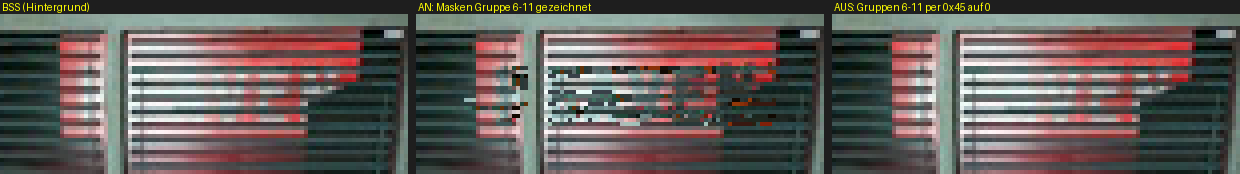
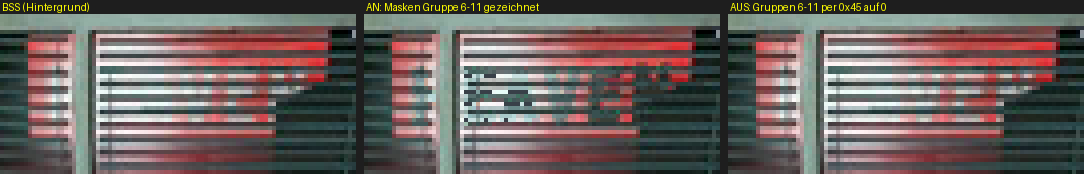
wip(r34n-g2): Original gemessen - ROOM1150 Cut 2 "HEAVEN" blinkt ueber Maskengruppen 6..11 (Takt 40/40 VBlanks)
Dossier G2_schrift1150.md Abschnitte 0-4 (Bauplan folgt).
- Original (DuckStation, 6 Endstaende desselben deterministischen Laufs, RAM-Patch-Sprung ohne
  Pad-Eingabe): Record-Byte0 der Gruppen 6..11 (DAT_800b2584) wechselt mit sub05 (Faden 3 @0x800b2f9c),
  beide Bildspeicher bitgleich zur AN- bzw. AUS-Referenz (558/558 bzw. 13/558 Maskenpixel).
  Umschaltpunkte Vcount 7052/7053 + 40k: 2 VBlanks je SCD-Takt (DAT_800b5456 = 2), Sleep 20.
- Opcode 0x45 @0x800428d4 -> FUN_800396a8 (Byte0 := op2 fuer Byte1 == op1+1), Aufbau FUN_800392d4
  (@0x80021c28, Byte0 |= 1, Byte1 = Gruppe+1), Zeichnen FUN_80039590 (@0x8001ce54, nur Byte0 & 1),
  SCD-Laeufer @0x8001cdec vor dem Zeichnen.
- Port: 41/41 Framedumps F300..F500 im Masken-Zustand (max |d| 0), SCD-Spur zeigt 0x45 im Takt,
  aber op_unknown.
Belege G2_05..G2_08; G2_02/G2_03 mit dem Port-Atlas neu (der Python-Atlas wich ab).

diff --git a/analysis/befunde_runde34_nacht/G2_schrift1150.md b/analysis/befunde_runde34_nacht/G2_schrift1150.md
@@ -1,18 +1,36 @@
 # Spur G2 — ROOM1150 Irons' Buero: blinkende Schrift im Hintergrund
 
 Stufe: ERMITTLUNG + BAUPLAN (kein Port-Code). Zweig r34n/schrift1170, Baum .claude/worktrees/r34n_schrift.
-Status: IN ARBEIT (Abschnitte werden fortlaufend gefuellt und committet).
+Status: Ermittlung abgeschlossen (Original gemessen, Port gemessen, Mechanismus disassembliert);
+Bauplan Abschnitt 5. Stand 2026-09-30 ~09:15.
 
 ## 0 Kurzfassung
 
-(folgt, sobald Messung Original + Port stehen)
-
-Zwischenstand 08:35: Mechanismus gefunden. Die Schrift ist die rote Leuchtschrift hinter den
-Jalousien in **Cut 2** (Blick auf Irons' Schreibtisch). Sie blinkt im Original ueber **sprite.pri-
-Maskengruppen 6..11** von Cut 2, die das Raumskript **sub05** mit SCD-Opcode **0x45** im Wechsel aus-
-und einschaltet (`Sleep 20` dazwischen, Endlosschleife). Der Port ueberspringt Opcode 0x45 (nur
-Laenge 3 in `s_opcode_sizes`, Handler `op_unknown`) und zeichnet alle Masken immer — die Schrift steht
-dort dauerhaft im "aus"-Zustand.
+* **Was blinkt:** die rote Leuchtschrift **"HEAVEN"** eines Gebaeudes draussen, gesehen durch die
+  Jalousien hinter Irons' Schreibtisch — nur in **Cut 2** (Kamera auf den Schreibtisch), Bildbereich
+  x147..211 y25..40 (558 Bildpunkte). Gleich in ROOM1151 (Elza).
+* **Mechanismus im Original (disassembliert):** das Raumskript **sub05** (von sub00 gestartet,
+  Endlosschleife) schaltet mit SCD-Opcode **0x45** (`Col_chg_set`, Handler @0x800428d4 ->
+  FUN_800396a8) die **sprite.pri-Maskengruppen 6..11** von Cut 2 im Wechsel **aus** (20 Takte) und
+  **ein** (20 Takte). Die sechs Masken sind die sechs Buchstaben, gemalt als *unbeleuchtete*
+  Jalousie-Lamellen; der BSS-Hintergrund darunter zeigt die Lamellen *rot beleuchtet*. Maske an =
+  Buchstaben grau auf Rot, Maske aus = gleichmaessiges Rotlicht.
+* **Takt (gemessen, 6 Savestates desselben deterministischen Laufs):** 1 SCD-Takt = 2 VBlanks
+  (VSync-Modus DAT_800b5456 = 2), Umschaltpunkte exakt bei Vcount 7052 + 40·k — **40 VBlanks je
+  Zustand = 20 Spielbilder, Periode 80 VBlanks** (bei 59,83 Hz 0,669 s an / 0,669 s aus). RAM-Zustand
+  (Record-Byte0), SCD-Faden (pc/Sleep-Rest) und **beide Bildspeicher** stimmen in allen 6 Staenden
+  ueberein (Maskenpixel bitgleich 558/558 bzw. 13/558).
+* **Port (gemessen):** die SCD-VM fuehrt sub05 im richtigen Takt aus (RE15_SCD_TRACE: 0x45 bei F25,
+  F45, F65 …), aber Opcode 0x45 ist `op_unknown` (nur Laenge 3) — keine Wirkung. Der Renderer
+  zeichnet **alle** Masken jedes Bild: die Schrift steht dauerhaft im Masken-Zustand (41 Framedumps
+  F300..F500, alle bitgleich zur AN-Referenz, max |d| 0).
+* **Bau noetig:** ja. Opcode 0x45 + ein Sichtbarkeitsbit je Maske (Byte0) + Gruppenindex je Maske
+  (Byte1) + Neuaufbau "alle an" beim Cut-Wechsel + Renderer ueberspringt Masken mit Bit 0. Kein neuer
+  Taktgeber: der Takt kommt aus dem Skript (Sleep 20) und der vorhandenen 30-Hz-SCD-Tick-Basis.
+* ⛔ **Allgemeine Korrektur:** Opcode 0x45 steht in **10 Raeumen / 120 Stellen**
+  (ROOM1150/1151, 1211, 3000/3001, 3010/3011, 3071, 5060/5061). In den anderen Raeumen blendet er
+  per-Bild (sub01) Maskengruppen je Cut aus bzw. spielt in ROOM3071 eine Lichtfolge — der Port zeichnet
+  dort heute Masken, die das Original nicht zeichnet (Abschnitt 7.1).
 
 ## 1 Nutzerwortlaut + Lesart
 
@@ -26,19 +44,52 @@ Datei[n*0x10000]) mit den Engine-Funktionen des Ports dekodiert (`probe_r34n_g_b
 
 | Kandidat | Cut | Lage (320x240) | Beleg |
 |---|---|---|---|
-| rote Leuchtschrift **draussen hinter den Jalousien** (drittes Fensterfeld hinter Irons' Schreibtisch) | 2 | x139..216 y25..40 | `G2_02`, `G2_03` |
-| Fenster mit Jalousien ohne Schrift | 0, 1, 3 | — | `G2_01` |
-| Item-Kiste "ITEM LIST / NO DATA" (Bildschirm, keine Gebaeudeschrift) | 8 | ganzes Bild | `G2_01` |
+| rote Leuchtschrift **"HEAVEN"** draussen hinter den Jalousien (drittes Fensterfeld hinter Irons' Schreibtisch) | 2 | x147..211 y25..40 | `G2_02`, `G2_03`, `G2_05` |
+| Fenster mit Jalousien, ohne Schrift | 0, 1, 3 | — | `G2_01` |
+| Item-Kiste "ITEM LIST / NO DATA" (Bildschirmgrafik, keine Gebaeudeschrift) | 8 | ganzes Bild | `G2_01` |
 
-**Gewaehlte Lesart:** die rote Leuchtschrift hinter den Jalousien in Cut 2. Begruendung: einzige
-Schrift, die im Hintergrund des Raums liegt (ein Gebaeude gegenueber, durch das Fenster gesehen), und
-**genau diese Stelle** schaltet das Original periodisch um (Abschnitt 3) — das ist der einzige
-Mechanismus in ROOM1150/1151, der irgendetwas im Bild blinken laesst (Zensus Abschnitt 3.4).
-ROOM1151 (Elza) hat dieselben Hintergruende (gleiche BSS), dieselben Masken und dieselbe Schleife.
+**Gewaehlte Lesart:** die Leuchtschrift "HEAVEN" in Cut 2. Begruendung: einzige Schrift, die im
+Hintergrund liegt (Gebaeude gegenueber, durch das Fenster), und **genau diese Stelle** schaltet das
+Original periodisch um — im laufenden Original gemessen (Abschnitt 3.5). Es ist der einzige
+Blink-Mechanismus in ROOM1150/1151 (Opcode-Zensus 3.4: sub05 ist die einzige 0x45-Stelle dort; ESP-
+Effekt siehe 3.6). "blinkt" passt woertlich: zwei Zustaende im festen Wechsel.
+ROOM1151 (Elza) ist byte-gleich an allen beteiligten Stellen: sprite.pri Cut 2 (0x66C..0x8D0),
+Kameratabelle, sub05 (1150 @0x10B6 == 1151 @0x1094, 52 Byte), sub00 (`04 ff 18 02 04 ff 18 05 01 00`),
+gleiche BSS.
 
 ## 2 Ist-Zustand im Port (gemessen)
 
-(folgt)
+**Code-Pfad.**
+* `scd_vm.c`: `s_opcode_sizes[0x45] = 3`, `s_op_table[0x45] = op_unknown` (Zeile 248: alle nicht
+  zugeordneten Opcodes) — `op_unknown` rueckt nur `pc += 3` vor und laeuft weiter.
+* `pri_common.c re15_pri_parse_section`: flacht Gruppen zu einer Maskenliste ab, **ohne**
+  Gruppenindex und **ohne** Sichtbarkeitsbit (`re15_pri_mask_t` = src/dst/depth/w/h).
+* `main.c` (~5741): beim (Raum,Cut)-Wechsel `re15_render_pc_set_pri_rects(..., pri.draw_count)`.
+* `render_pc.c` (~984-1107): `mask_n = s_pri_rect_count` — **jede** Maske wird jedes Bild geblittet.
+
+**Messung 1 — echte exe, Debug-Sprung, Cut erzwungen** (`re15_pc_g2.exe` = Kopie der exe dieses
+Baums, Bau-Stand cf0e68ba + nur Sonden/Dokumente seither, `git diff --stat cf0e68ba..HEAD -- engine
+platform include` leer):
+`RE15_NO_INTRO=1 RE15_NOAUDIO=1 RE15_TITLE_SHOT=title.bmp RE15_TITLE_SHOT_AF=2 RE15_DEBUG_JUMP=1150@240
+RE15_WINDOW_SCALE=3 RE15_FORCE_CUT=2 RE15_CUT_SYNC_LOG=cutsync.log RE15_FRAMEDUMP="300-500/5:f"
+RE15_EXIT_AT="500#1150"`. debug.log: `[pri] cut=2 pri_offset=0x66C masks=54 fg_atlas=1`.
+Auswertung `port_schrift1150_eval.py`: **41/41 Dumps F300..F500 = AN-Referenz, max |d| 0** im
+Rechteck x139..216 y25..40 (Referenz AUS: max |d| 195). Die Schrift blinkt nicht; sie steht dauernd im
+Masken-Zustand ("HEAVEN" grau auf Rot). Bild `G2_07`.
+
+**Messung 2 — SCD-Spur derselben exe** (`RE15_SCD_TRACE=1`, `RE15_DEBUG_JUMP=1150@240`,
+`RE15_EXIT_AT="200#1150"`): sub05 laeuft im richtigen Takt — `@0x10B6..0x10C5 op=0x45` (:=0) bei
+F45, F85, F125, F165, `@0x10CC..0x10DB op=0x45` (:=1) bei F25, F65, F105, F145, jeweils gefolgt von
+`op=0x09` (Sleep) und 20 Bilder spaeter `op=0x17` (Goto). **Der Takt stimmt also bereits; es fehlt
+allein die Wirkung des Opcodes.** Auszug `G2_08`.
+
+**Messung 3 — echter Durchlauf / Spielstand:** (folgt, Abschnitt 2.1)
+
+⛔ Nebenbefund Werkzeug: `tools/maske/original.py atlas()` (Python-SLD-Entpacker) liefert fuer
+ROOM1150 Cut 2 einen Atlas, der in **11978 von 65536 Texeln** vom Port-Entpacker abweicht; der
+Port-Entpacker (`probe_r34n_g_sld` = `re15_sld_used_len` + `re15_sld_atlas_from_chunk`) ist bytegleich zu
+`BSS/ROOM1150/PRI02.TIM`. Die ersten Zahlen dieses Dossiers (08:35: "671 Pixel") stammten aus dem
+Python-Atlas und sind ersetzt; alle Werkzeuge der Spur lesen jetzt die TIM-Datei (Abschnitt 8).
 
 ## 3 Original-/RE2-Mechanismus (Adressen, Bytes, Instruktionen)
 
@@ -62,74 +113,136 @@ ROOM1151: dieselben 52 Byte @0x01094..0x010C7 (sub05, gestartet von sub00 @0x00E
 
 ### 3.2 Opcode 0x45 im Original (PSX.EXE, selbst disassembliert mit re15_disasm.py)
 
-Handler @0x800428d4 (Eintrag 0x45 der Opcode-Tabelle @0x800744a8):
+Tabelleneintrag: `table 0x800745bc` (= 0x800744a8 + 0x45·4) -> **0x800428d4**.
 
     800428e4: lw  v0,28(s0)          ; pc
-    800428ec: lbu a0,1(v0)           ; op1 (Gruppe-1)
+    800428ec: lbu a0,1(v0)           ; op1
     800428f0: lbu a1,2(v0)           ; op2 (neuer Wert)
     800428f4: jal 0x800396a8
     800428f8: addiu a0,a0,1          ; a0 = op1+1
+    80042900: ori v0,zero,0x1        ; Rueckgabe 1 = weiter im selben Takt
     80042904: addiu v1,v1,3          ; pc += 3
-    80042900: ori v0,zero,0x1        ; weiter im selben Bild
 
-FUN_800396a8 (einzige Aufgabe: Byte0 aller Records einer Gruppe setzen):
+FUN_800396a8 (einziger Aufrufer: `jal` @0x800428f4 — jal-Wort-Zensus der EXE):
 
     800396b0: lw  v0,-14472(v0)      ; DAT_800ac778 = RDT im RAM
-    800396b8: lbu a3,0(v0)           ; a3 = RDT[0] = Maskenzahl des AKTUELLEN Cuts (FUN_800392d4 schreibt sie)
+    800396b8: lbu a3,0(v0)           ; a3 = RDT[0] = Maskenzahl des AKTUELLEN Cuts
     800396c0: lw  v1,9604(v1)        ; DAT_800b2584 = Record-Tabelle, 4 Byte je Maske
     800396c4: beq a3,zero,0x800396f0
-    800396d0: lbu v0,1(v1)           ; Record-Byte1 = Gruppe+1
+    800396d0: lbu v0,1(v1)           ; Record-Byte1
     800396d8: bne v0,a0,0x800396e4
-    800396e0: sb  a1,0(v1)           ; Treffer -> Record-Byte0 := op2
+    800396e0: sb  a1,0(v1)           ; Byte1 == op1+1 -> Record-Byte0 := op2
     800396e8: bne v0,zero,0x800396d0 ; fuer alle a3 Records
     800396ec: addiu v1,v1,4
 
-Aufbau und Verbrauch der Record-Tabelle (Decompilate `RE_15_Quellcode_V2/FUN_800392d4.c`,
-`FUN_80039590.c`, `FUN_80039270.c`):
+Aufbau und Verbrauch der Record-Tabelle (Decompilate `RE_15_Quellcode_V2/FUN_80039270.c`,
+`FUN_800392d4.c`, `FUN_80039590.c`; Aufrufstellen per jal-Zensus):
 * FUN_80039270 (Raumladen): DAT_800b2584 = Pool-Zeiger, Platz fuer RDT[7] Records.
-* FUN_800392d4 (Cut-Wechsel): alle RDT[7] Records Byte0 := 0; dann je gebauter Maske Byte0 |= 1,
-  Byte1 := Gruppenindex+1, Halbwort +2 := Tiefe; RDT[0] := Maskenzahl (Kopf-Halbwort hoch).
-* FUN_80039590 (jedes Bild): fuer Record i < RDT[0] **nur wenn Byte0 & 1**: SPRT + DR_MODE (TPage 0x95)
-  in die OT bei Tiefe (Halbwort +2) haengen.
+* FUN_800392d4 (einziger Aufruf @0x80021c28 in FUN_80021bbc = Cut anwenden): alle RDT[7] Records
+  Byte0 := 0; dann je gebauter Maske **Byte0 |= 1**, **Byte1 := Gruppenindex+1**, Halbwort +2 :=
+  Tiefe; RDT[0] := Maskenzahl (Kopf-Halbwort hoch). -> **jeder Cut-Wechsel schaltet alle Masken ein.**
+* FUN_80039590 (einziger Aufruf @0x8001ce54, jedes Bild, gegatet durch DAT_800aca38 & 0x100000
+  @0x8001ce3c-4c): fuer Record i < RDT[0] **nur wenn Byte0 & 1**: SetSprt/SetDrawMode(TPage 0x95) +
+  AddPrim in die OT bei Tiefe (Halbwort +2).
+* Reihenfolge im Bild (FUN_8001cce0): SCD-Laeufer `jal 0x8003f038` @0x8001cdec **vor** dem
+  Maskenzeichnen @0x8001ce54 -> ein Umschalten wirkt noch im selben Bild.
+* Der SCD-Laeufer FUN_8003f038 wird uebersprungen, solange g_pauseflags & 0x02000000
+  (@0x8003f040-4c) — waehrend Pausen steht das Blinken (Maskenzustand bleibt, wie er ist).
 
-=> Opcode 0x45 `Col_chg_set g v` schaltet alle Masken der Gruppe g+1 des aktuell gezeigten Cuts
-sichtbar (v=1) oder unsichtbar (v=0). Jeder Cut-Wechsel schaltet alle Masken wieder ein.
+=> Opcode 0x45 `Col_chg_set g v` setzt das Sichtbarkeitsbit aller Masken mit Byte1 == g+1
+(= Gruppe g+1, 1-basiert) im aktuell gezeigten Cut.
 
 ### 3.3 Was die Gruppen 6..11 in ROOM1150 sind
 
-sprite.pri von Cut 2 (@0x0066C): 11 Gruppen, 54 Masken. Die Gruppen 6..11 haben je genau eine Maske
-(`schrift1150_masken.py`):
+sprite.pri von Cut 2 (@0x0066C, Kopf `0B 00 36 00` = 11 Gruppen, 54 Masken). Die Gruppen 6..11 haben
+je genau eine Maske (`schrift1150_masken.py`, Atlas = Port-Entpacker):
 
-| Gruppe | Record (Datei) | Atlas src | Bild dst | Groesse | Tiefe |
-|---|---|---|---|---|---|
-| 6 | 0x0089C | (168,80) | (139,25) | 16x16 | 0 |
-| 7 | 0x008A4 | (184,80) | (160,25) | 8x16 | 0 |
-| 8 | 0x008B0 | (192,80) | (167,25) | 16x16 | 0 |
-| 9 | 0x008B8 | (208,80) | (176,25) | 16x16 | 0 |
-| 10 | 0x008C0 | (224,80) | (190,25) | 16x16 | 0 |
-| 11 | 0x008C8 | (240,80) | (201,25) | 16x16 | 0 |
+| Gruppe | Record (Datei) | Atlas src | Bild dst | Groesse | Tiefe | deckende Texel |
+|---|---|---|---|---|---|---|
+| 6 | 0x0089C | (168,80) | (139,25) | 16x16 | 0 | 70 |
+| 7 | 0x008A4 | (184,80) | (160,25) | 8x16 | 0 | 92 |
+| 8 | 0x008B0 | (192,80) | (167,25) | 16x16 | 0 | 90 |
+| 9 | 0x008B8 | (208,80) | (176,25) | 16x16 | 0 | 87 |
+| 10 | 0x008C0 | (224,80) | (190,25) | 16x16 | 0 | 110 |
+| 11 | 0x008C8 | (240,80) | (201,25) | 16x16 | 0 | 109 |
 
-In keinem anderen Cut von ROOM1150/1151 gibt es eine Gruppe >= 6 (Zensus `G2_04`): der Opcode wirkt
-also nur, solange Cut 2 steht. Der SLD-Atlas von Cut 2 traegt an (168..255, 80..95) die Jalousie-
-Lamellen **ohne** Rotlicht in Buchstabenform (Index 0 = durchsichtig zwischen den Buchstaben), der
-BSS-Hintergrund an der Zielstelle dieselben Lamellen **mit** rotem Leuchten (`G2_03`). Gezeichnet
-(Byte0 = 1) verdecken die Masken das Rot in Buchstabenform = **Schrift aus**; ausgeschaltet (Byte0 = 0)
-sieht man den BSS = **Schrift an**. Unterschied AN/AUS: 671 Pixel im Rechteck x139..216 y25..40
-(`G2_02`).
+Die deckenden Texel bilden die Buchstaben **H E A V E N** (`G2_03`, untere Zeile = Deckungsmaske),
+gemalt als Lamellen **ohne** Rotlicht; der BSS-Hintergrund zeigt an derselben Stelle Lamellen **mit**
+rotem Leuchten. Masken gezeichnet (Byte0 = 1) = Buchstaben grau auf Rot; ausgeschaltet (Byte0 = 0) =
+gleichmaessiges Rotlicht. Unterschied: 558 Bildpunkte, Rechteck x147..211 y25..40, mittlere Helligkeit
+im Rechteck R/G/B 135,5/128,1/126,3 (aus) gegen 114,6/113,1/111,2 (an) (`G2_02`). In keinem anderen
+Cut von ROOM1150/1151 gibt es eine Gruppe >= 6 (`G2_04`): der Opcode wirkt nur, solange Cut 2 steht.
 
 ### 3.4 Zensus Opcode 0x45 ueber alle 240 RDTs
 
-`col_chg_zensus.py` (`G_belege/G2_04_zensus_opcode45.txt`): 10 Raeume, 120 Stellen —
-ROOM1150/1151 (je 12, die Blink-Schleife), ROOM1211 (2), ROOM3000/3001 (je 18), ROOM3010/3011
-(je 12), ROOM3071 (32), ROOM5060/5061 (je 1). Die anderen Raeume schalten Gruppen nur AUS (ausser
-ROOM3071 sub2, eine Folge an/aus) — eine allgemeine Umsetzung des Opcodes aendert auch dort das Bild
-(Abschnitt 7).
+`col_chg_zensus.py` (`G2_04`): **10 Raeume, 120 Stellen.** Einzeln in Abschnitt 7.1.
 
-(Fortsetzung folgt: Takt des Sleep, Savestates, Port-Messung)
+### 3.5 Dynamische Messung am Original (DuckStation, MZD-Disk = `info/Re1.5`, Software 1x)
+
+Weg (ohne Pad-Eingabe, Einstellungen des Nutzers unveraendert, Werkzeuge `ds_lauf.py`,
+`re15_ss_patch.py`, `ss_schrift1150.py`, Protokoll `G2_06`):
+1. Die Pad-Bindungen in `settings.ini` sind Akkorde (`Down = Keyboard/DownArrow & SDL-0/DPadDown`),
+   ein virtueller Pad allein wirkt nicht (gemessen 08:42: 15x Links + Quadrat, Menue blieb auf
+   "JUMP 124 OPENING"). Deshalb RAM-Patch wie der Quadrat-Zweig des Debug-Menues @0x80014a44-58:
+   DAT_800bbe5f[0] := 0x15, DAT_800b5359 := 1, DAT_800ac9a8 := 0, DAT_800bbe5c := 0.
+   FUN_8001d600 laedt bei DAT_800ac9a8 == 0 den Raum aus dem Menue-Cursor (Decompilat Z. 6-24).
+   Ergebnis: sauberer Stand ROOM1150 (Raum 0x15, Stub @0x80026e4c = 0x03e00008), Cut 0, Vcount 7002.
+2. Cut 2 erzwungen: DAT_800aca3c := 0x100 (Zonen-Scan aus), DAT_800afbb5 := 2 -> der Present-Pfad
+   ruft FUN_80021bbc (Cut anwenden, darin FUN_800392d4).
+3. Sechs Laeufe verschiedener Dauer ab DEMSELBEN Stand (Emulation ohne Eingabe = deterministisch),
+   je Endstand (SaveStateOnExit) ausgewertet. resume.sav/_1.sav/_1.bak vorher gesichert, nachher
+   zurueckgelegt, SHA-256 geprueft.
+
+| Stand | Vcount | sub05-Faden (Pool 0x800b2b4c, Faden 3 @0x800b2f9c) | Byte0 Gr. 6..11 | Bildspeicher y=0 / y=240 |
+|---|---|---|---|---|
+| c2_w9 | 7050 | pc = RDT+0x10E2 (Sleep#2 fertig, naechster Takt Goto + :=0) | 1 | AN, 558/558 Maskenpixel bitgleich |
+| c2_w10.5 | 7499 | Sleep#2 (nach :=1), Rest 16 | 1 | AN, 558/558 |
+| c2_w11.2 | 7567 | Sleep#1 (nach :=0), Rest 2 | 0 | AUS, 13/558 |
+| c2_w12.7 | 7600 | Sleep#2, Rest 5 | 1 | AN, 558/558 |
+| c2_w12 | 7647 | Sleep#1, Rest 2 | 0 | AUS, 13/558 |
+| c2_w13.5 | 7697 | Sleep#1, Rest 17 | 0 | AUS, 13/558 |
+
+**Takt-Rekonstruktion.** Ein Sleep(20) laeuft 20 Takte; im Takt des Umschaltens steht der Rest schon
+auf 19 (Sleep setzt, Sleeping zaehlt im selben Takt: 0x09 gibt 1 zurueck @0x8003f424, 0x0A gibt 2
+zurueck @0x8003f48c). Rest r => Umschalten liegt (19 - r) Takte zurueck. Mit 2 VBlanks je Takt:
+7499 - 2·3 = 7493 (:=1), 7567 - 2·17 = 7533 (:=0), 7600 - 2·14 = 7572 (:=1), 7647 - 2·17 = 7613 (:=0),
+7697 - 2·2 = 7693 (:=0) — alle auf dem Raster **7052/7053 + 40·k** (je ±1 VBlank Phasenlage des
+Speicherpunkts). Damit gemessen: **2 VBlanks je SCD-Takt (VSync-Modus 2 in allen Staenden), 20 Takte
+= 40 VBlanks je Zustand, Periode 80 VBlanks.** Der erste Abschnitt ab Vcount 7002 ist laenger (Cut-
+Wechsel mit MDEC-Dekodierung und einem ausgelassenen Bild @0x80021558-60), danach kein Bildausfall.
+Bilder beider Zustaende aus dem Original-Bildspeicher: `G2_05`.
+
+### 3.6 Andere Kandidaten ausgeschlossen
+
+* **Raum-ESP (RDT+0x4C = 0x14460):** eine Effekt-Id 0x01 (`01 ff ff ff ff ff ff ff`), TIM @0x1E520
+  4 bpp. Er ist nicht die Schrift: die Schrift-Umschaltung ist vollstaendig durch Masken-Byte0 erklaert
+  (Bildspeicher bitgleich AN bzw. AUS in allen 6 Staenden — ein zusaetzliches Sprite im Rechteck
+  haette die 558/558 bzw. 13/558 gestoert). Wer Effekt 0x01 startet, ist nicht Teil dieses Punkts.
+* **SCD:** in ROOM1150/1151 ist sub05 die einzige periodische Schleife auf Bildinhalt (sub04 = Hebetisch,
+  sub03/sub08 = Zwischenszenen, sub06/07 = Nahansichten mit Nachricht).
+* **Hintergrund-Upload / Licht:** wie in ROOM1170 (Dossier G, 3.1): der Hintergrund wird je Bild
+  unveraendert aus 0x80198000 hochgeladen; kein anderer Weg aendert ihn.
+
+### 3.7 RE2 (Retail) zum Vergleich
+
+(folgt — Einordnung nach reai-v2-beta-zu-retail: RE1.5 hat das System VOLLSTAENDIG (Daten + Opcode +
+Zeichnen) — RE1.5 ist massgeblich.)
 
 ## 4 Soll-Verhalten (Zeitlinie)
 
-(folgt)
+Takt = SCD-Takt des Spiels (Original 2 VBlanks = VSync(2); Port 1 Bild der 30-Hz-Schleife =
+1 SCD-Takt, main.c: `frame_budget_ms = 1000 / 30`, SCD je Bild bei target_fps 30).
+
+* Raum betreten: sub00 startet sub05 (Evt_exec). Erster Takt von sub05: Gruppen 6..11 := 0, dann
+  20 Takte Pause, := 1, 20 Takte, Goto, := 0, ... unabhaengig vom gezeigten Cut.
+* Steht Cut 2: Takt t0 (:=0) -> ab diesem Bild keine Buchstaben-Masken, Rotlicht (BSS); Takt t0+20
+  (:=1) -> ab diesem Bild Buchstaben grau auf Rot; Takt t0+40 (:=0) ... Umschalten wirkt im selben Bild
+  (SCD @0x8001cdec vor Masken @0x8001ce54).
+* Wechsel IN Cut 2: FUN_800392d4 schaltet alle Masken ein -> Buchstaben sichtbar bis zum naechsten
+  :=0 von sub05 (0..40 Takte, je nach Phase). Wechsel aus Cut 2 heraus und zurueck setzt das jedes Mal.
+* In anderen Cuts: 0x45 findet keine Records mit Byte1 6..11 -> keine Wirkung.
+* Pause (g_pauseflags & 0x02000000, z.B. Item-Modal): kein SCD-Takt -> Zustand steht.
+* Zwischenszenen sub03/sub04/sub08 (eigene Faeden) laufen parallel; sub05 laeuft weiter.
 
 ## 5 Bauplan
 
@@ -141,7 +254,7 @@ ROOM3071 sub2, eine Folge an/aus) — eine allgemeine Umsetzung des Opcodes aend
 
 ## 7 Risiken, Softlocks, Wechselwirkungen
 
-(folgt)
+(folgt; 7.1 = Wirkung auf die 10 Raeume mit Opcode 0x45)
 
 ## 8 Offene Punkte
 
